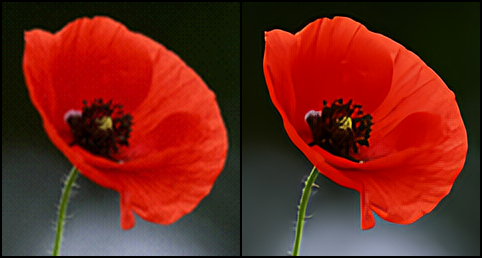
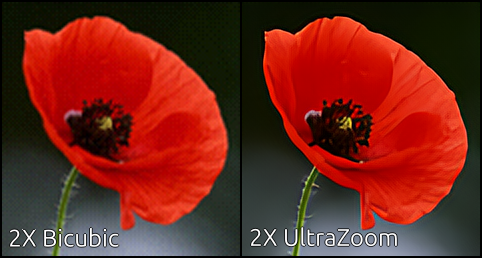
A little nicer

Changed region(s): [[0.4979, 0.8682, 0.8402, 0.9612], [0.0, 0.8682, 0.249, 0.9612]]

diff --git a/src/ultrazoom/model.py b/src/ultrazoom/model.py
@@ -31,7 +31,7 @@ class UltraZoom(Module, PyTorchModelHubMixin):
     details using a deep neural network.
     """
 
-    AVAILABLE_UPSCALE_RATIOS = {2, 3, 4}
+    AVAILABLE_UPSCALE_RATIOS = {1, 2, 3, 4, 8}
 
     AVAILABLE_HIDDEN_RATIOS = {1, 2, 4}
 
@@ -229,7 +229,13 @@ class SubpixelConv2d(Module):
     def __init__(self, in_channels: int, upscale_ratio: int):
         super().__init__()
 
-        assert upscale_ratio in {2, 3, 4}, "Upscale ratio must be either 2, 3, or 4."
+        assert upscale_ratio in {
+            1,
+            2,
+            3,
+            4,
+            8,
+        }, "Upscale ratio must be either 1, 2, 3, 4, or 8."
 
         out_channels = 3 * upscale_ratio**2
 

diff --git a/upscale.py b/upscale.py
@@ -1,10 +1,12 @@
+from time import time
+
 from argparse import ArgumentParser
 
 import torch
 
 from torchvision.io import decode_image
 from torchvision.transforms.v2 import ToDtype
-from torchvision.utils import make_grid
+from torchvision.utils import make_grid, save_image
 
 from src.ultrazoom.model import UltraZoom
 
@@ -68,6 +70,9 @@ def main():
 
     plt.imshow(grid)
     plt.show()
+
+    if "y" in input("Save upscaled image? (yes|no): ").lower():
+        save_image(y_pred.squeeze(0), f"{time()}.png")
 
 
 if __name__ == "__main__":

diff --git a/README.md b/README.md
@@ -15,6 +15,7 @@ A fast single image super-resolution (SISR) model for upscaling images without l
 View at full resolution for best results. More comparisons can be found [here](https://github.com/andrewdalpino/UltraZoom/tree/master/docs/images).
 
 ![UltraZoom 2X Comparison](https://raw.githubusercontent.com/andrewdalpino/UltraZoom/master/docs/images/cat-2x.png)
+![UltraZoom 4X Comparison](https://raw.githubusercontent.com/andrewdalpino/UltraZoom/master/docs/images/flower-4x.png)
 
 ## Pretrained Models
 
@@ -34,7 +35,7 @@ If you'd just like to load the pretrained weights and do inference, getting star
 pip install ultrazoom torchvision
 ```
 
-Next, load the model weights from HuggingFace Hub and feed the network some images.
+Next, load the model weights from HuggingFace Hub and feed the network some images. Note that the input to the `upscale()` method is a normalized [0, 1] 4D tensor of shape [b, 3, w, h] where b is the batch dimension, and w and height are the width and height respectively.
 
 ```python
 import torch
@@ -128,7 +129,7 @@ Then navigate to the dashboard using your favorite web browser.
 | --test_images_path | "./dataset/test" | str | The path to the folder containing your testing images. |
 | --num_dataset_processes | 4 | int | The number of CPU processes to use to preprocess the dataset. |
 | --target_resolution | 256 | int | The number of pixels in the height and width dimensions of the training images. |
-| --upscale_ratio | 2 | (2, 4, 8) | The upscaling or zoom factor. |
+| --upscale_ratio | 2 | (1, 2, 3, 4, 8) | The upscaling or zoom factor. |
 | --blur_amount | 0.5 | float | The amount of Gaussian blur to apply to the degraded low-resolution image. |
 | --compression_amount | 0.2 | float | The amount of JPEG compression to apply to the degraded low-resolution image. |
 | --noise_amount | 0.02 | float | The amount of Gaussian noise to add to the degraded low-resolution image. |
@@ -138,7 +139,7 @@ Then navigate to the dashboard using your favorite web browser.
 | --hue_jitter | 0.1 | float | The amount of jitter applied to the hue of the training images. |
 | --batch_size | 32 | int | The number of training images to pass through the network at a time. |
 | --gradient_accumulation_steps | 4 | int | The number of batches to pass through the network before updating the model weights. |
-| --num_epochs | 50 | int | The number of epochs to train for. |
+| --num_epochs | 100 | int | The number of epochs to train for. |
 | --learning_rate | 5e-4 | float | The learning rate of the Adafactor optimizer. |
 | --max_gradient_norm | 2.0 | float | Clip gradients above this threshold norm before stepping. |
 | --num_channels | 48 | int | The number of channels within each encoder block. |
